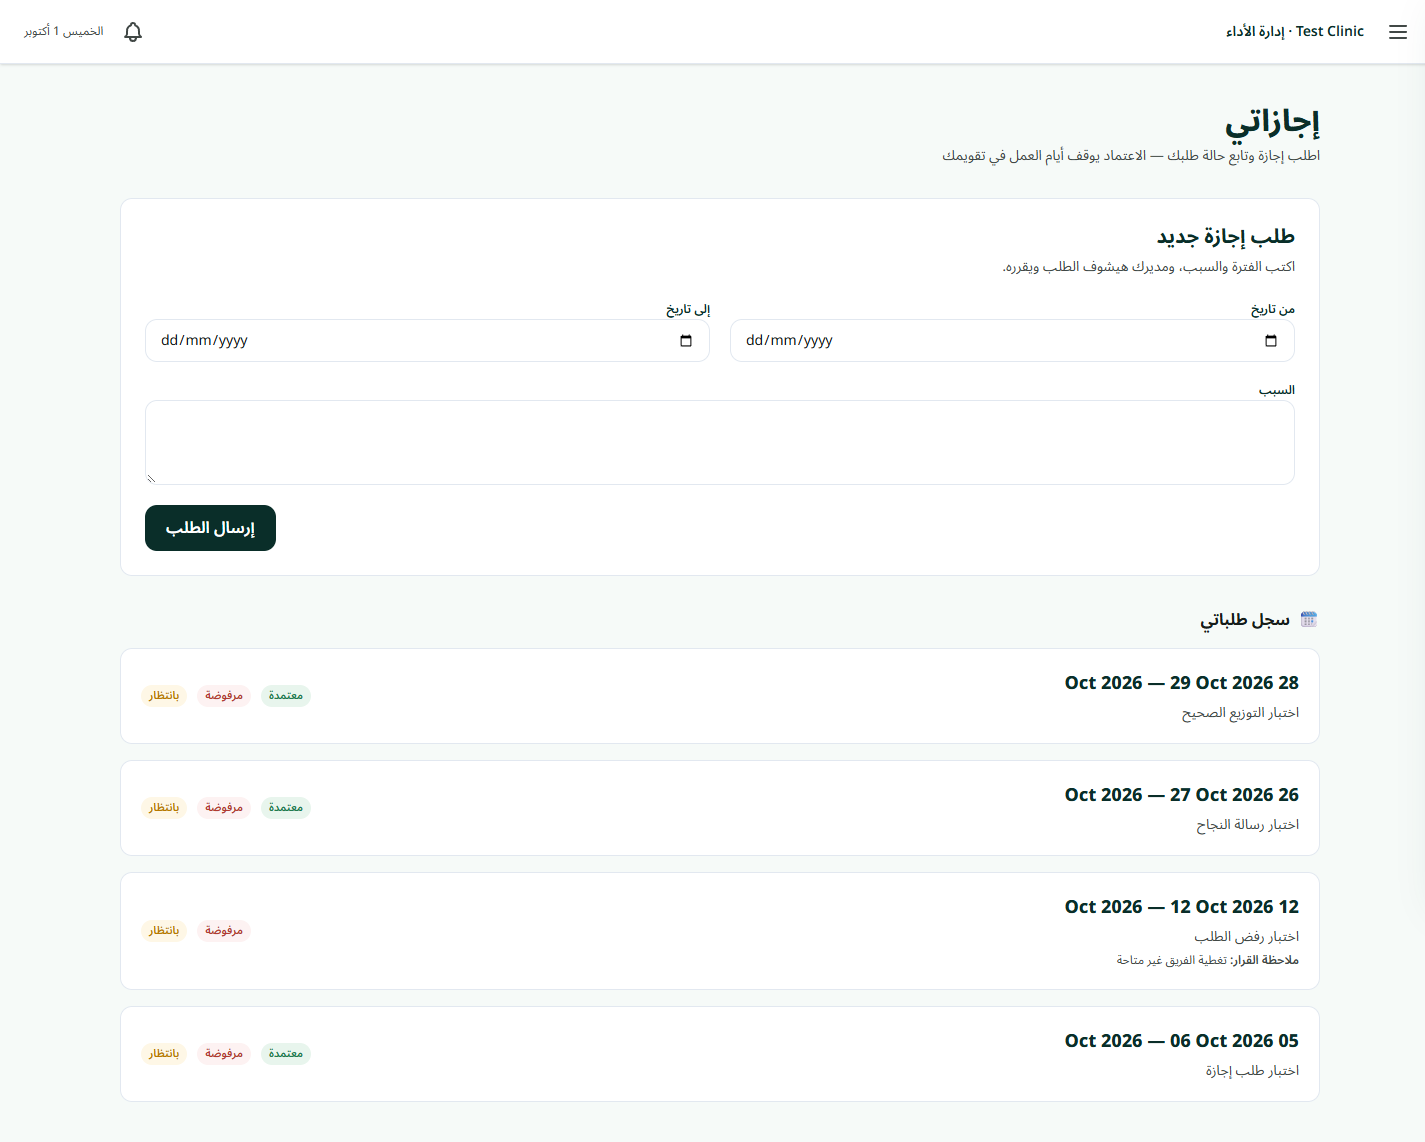
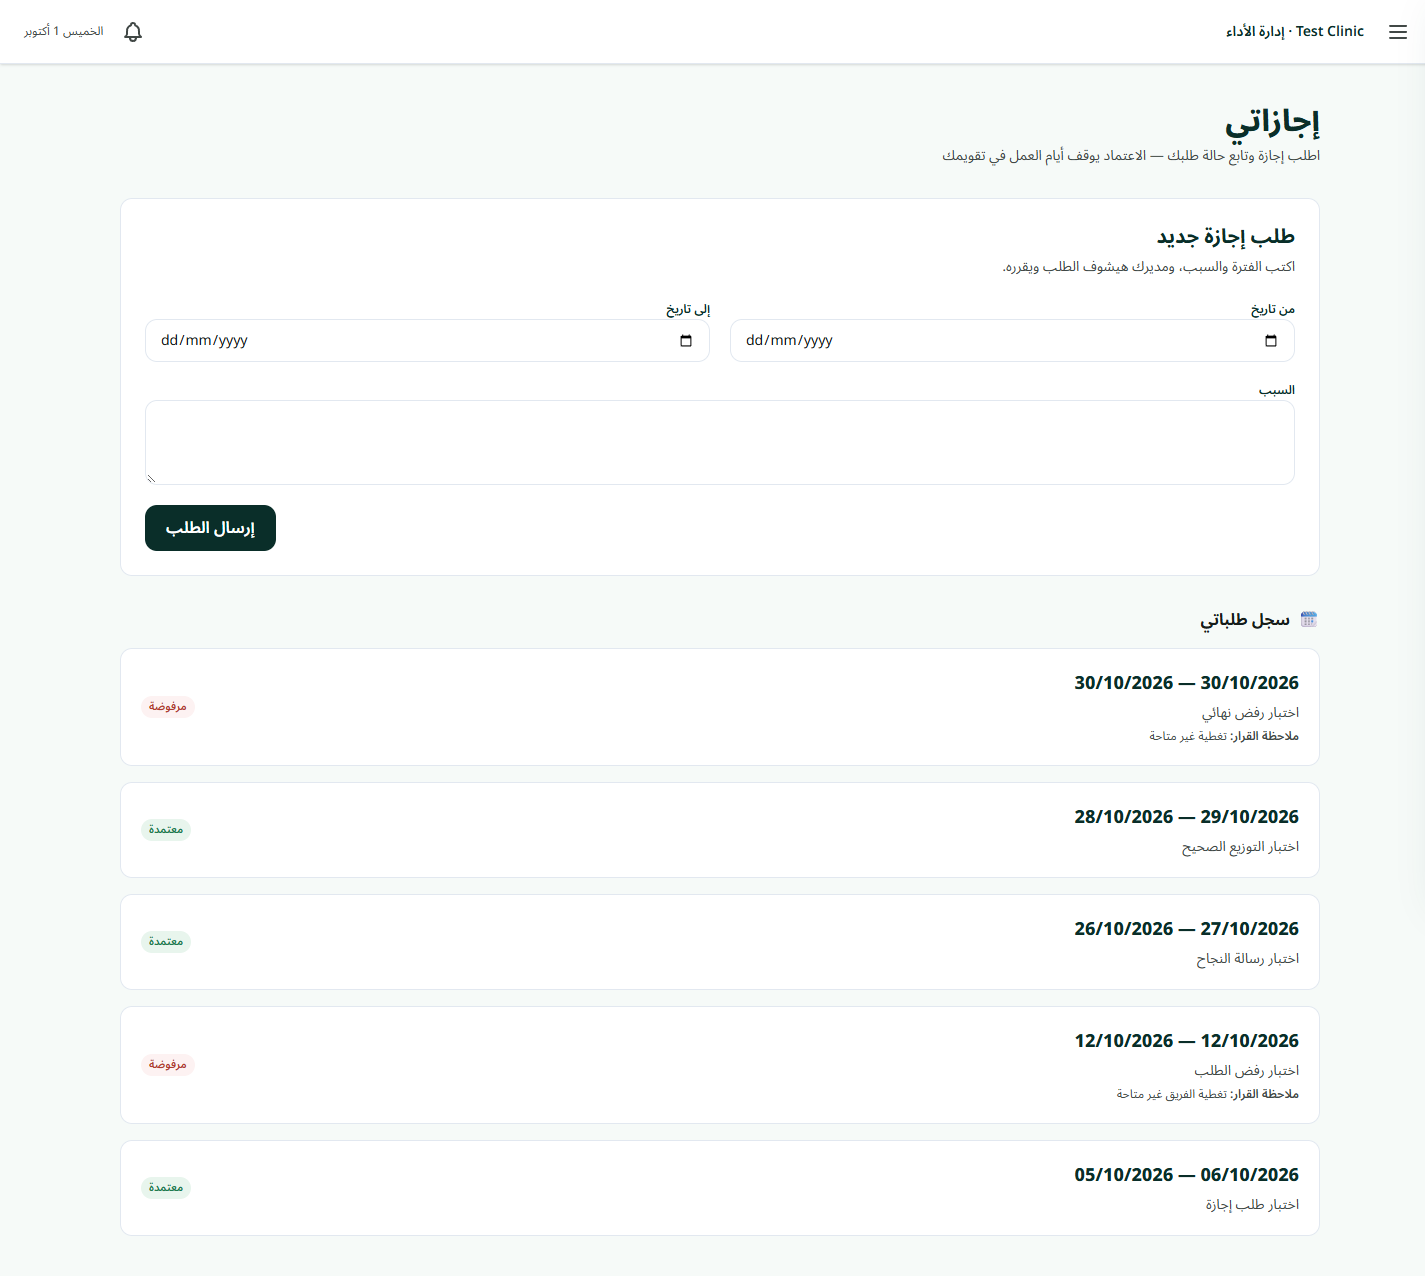
fix(ui): polish leave request states

diff --git a/apps/api/src/main/resources/templates/leaves-me.html b/apps/api/src/main/resources/templates/leaves-me.html
@@ -70,7 +70,7 @@
         </div>
         <article th:each="request : ${requests}" class="clinicos-card p-5 flex flex-col md:flex-row md:items-center justify-between gap-4">
           <div class="space-y-1.5">
-            <h4 class="font-extrabold text-teal-900 text-lg" th:text="|${#temporals.format(request.start(), 'dd MMM yyyy')} — ${#temporals.format(request.end(), 'dd MMM yyyy')}|">01 يناير 2026 — 05 يناير 2026</h4>
+            <h4 class="font-extrabold text-teal-900 text-lg"><bdi dir="ltr" th:text="|${#temporals.format(request.start(), 'dd/MM/yyyy')} — ${#temporals.format(request.end(), 'dd/MM/yyyy')}|">01/01/2026 — 05/01/2026</bdi></h4>
             <p class="text-xs sm:text-sm text-on-surface-variant" th:text="${request.reason()}">السبب</p>
             <p th:if="${request.decisionNote() != null and !request.decisionNote().isBlank()}" class="text-xs text-on-surface-variant">
               <span class="font-semibold">ملاحظة القرار:</span>
@@ -79,8 +79,8 @@
           </div>
           <div class="flex items-center gap-2.5 shrink-0">
             <span th:if="${request.status().name() == 'approved'}" class="clinicos-chip clinicos-chip--success">معتمدة</span>
-            <span th:elseif="${request.status().name() == 'rejected'}" class="clinicos-chip clinicos-chip--danger">مرفوضة</span>
-            <span th:else class="clinicos-chip clinicos-chip--warning">بانتظار</span>
+            <span th:if="${request.status().name() == 'rejected'}" class="clinicos-chip clinicos-chip--danger">مرفوضة</span>
+            <span th:if="${request.status().name() == 'pending'}" class="clinicos-chip clinicos-chip--warning">بانتظار</span>
             <form th:if="${request.status().name() == 'pending'}" method="post" th:action="@{/leaves/{id}/cancel(id=${request.id()})}" hx-boost="true" hx-confirm="هل أنت متأكد من إلغاء الطلب؟">
               <input type="hidden" th:name="${_csrf.parameterName}" th:value="${_csrf.token}">
               <button class="clinicos-btn clinicos-btn--secondary px-3 py-2 text-xs" type="submit">إلغاء</button>

diff --git a/apps/api/src/main/resources/templates/leaves-queue.html b/apps/api/src/main/resources/templates/leaves-queue.html
@@ -13,19 +13,19 @@
            th:classappend="${toastType == 'error'} ? ' border-danger-600 bg-danger-50 text-danger-600' : ' border-success-600 bg-success-50 text-success-600'"
            th:attr="role=${toastType == 'error'} ? 'alert' : 'status'" th:text="${toastMessage}"></div>
 
-      <a th:href="@{/leaves/me}" class="clinicos-btn clinicos-btn--secondary mb-8 inline-flex">إجازاتي</a>
+      <a th:href="@{/leaves/me}" class="clinicos-btn clinicos-btn--secondary mb-8 inline-flex w-full sm:w-auto">إجازاتي</a>
 
       <div th:if="${!#lists.isEmpty(pending)}" class="space-y-4">
         <div class="flex items-center gap-2 text-on-surface font-bold text-sm sm:text-base">
           <span class="text-base" role="img" aria-label="ساعة رملية">⏳</span>
-          <h3>بانتظار الاعتماد</h3>
+          <h2>بانتظار الاعتماد</h2>
         </div>
         <article th:each="request : ${pending}" class="clinicos-card p-5 sm:p-6 flex flex-col md:flex-row md:items-center justify-between gap-5">
           <div class="space-y-2.5 flex-1">
             <span class="clinicos-chip clinicos-chip--warning">بانتظار قرارك</span>
             <h4 class="text-lg font-bold text-teal-900" th:text="${request.employeeName()}">سارة أحمد</h4>
             <p class="text-xs sm:text-sm text-on-surface-variant">
-              <span th:text="|${#temporals.format(request.start(), 'dd MMM yyyy')} — ${#temporals.format(request.end(), 'dd MMM yyyy')}|"></span>
+              <span dir="ltr" th:text="|${#temporals.format(request.start(), 'dd/MM/yyyy')} — ${#temporals.format(request.end(), 'dd/MM/yyyy')}|"></span>
             </p>
             <p class="text-xs sm:text-sm text-on-surface-variant" th:text="${request.reason()}">السبب</p>
           </div>

diff --git a/apps/api/src/test/java/com/clinicos/ui/LeaveTemplateTest.java b/apps/api/src/test/java/com/clinicos/ui/LeaveTemplateTest.java
@@ -43,7 +43,8 @@ class LeaveTemplateTest {
         String html = templateEngine().process("leaves-me", context);
 
         assertThat(html).contains("name=\"start\"", "name=\"end\"", "name=\"reason\"",
-                "سجل طلباتي", "غير مناسب هذا الأسبوع", "مرفوضة");
+                "سجل طلباتي", "غير مناسب هذا الأسبوع", "مرفوضة", "12/10/2026", "14/10/2026")
+                .doesNotContain("معتمدة", "بانتظار", "Oct");
     }
 
     @Test
@@ -52,7 +53,18 @@ class LeaveTemplateTest {
 
         String html = templateEngine().process("leaves-queue", context);
 
-        assertThat(html).contains("طلبات الإجازة", "سارة", "/leaves/", "اعتماد", "رفض", "name=\"note\"");
+        assertThat(html).contains("طلبات الإجازة", "سارة", "/leaves/", "اعتماد", "رفض", "name=\"note\"",
+                "w-full sm:w-auto", "12/10/2026", "14/10/2026", "<h2>بانتظار الاعتماد</h2>")
+                .doesNotContain("<h3>بانتظار الاعتماد</h3>", "Oct");
+    }
+
+    @Test
+    void approvedAndPendingStatusesRenderOnlyTheirOwnChip() {
+        String approved = ownRequestsHtml(request(LeaveStatus.approved, null));
+        String pending = ownRequestsHtml(request(LeaveStatus.pending, null));
+
+        assertThat(approved).contains("معتمدة").doesNotContain("مرفوضة", "بانتظار");
+        assertThat(pending).contains("بانتظار").doesNotContain("معتمدة", "مرفوضة");
     }
 
     @Test
@@ -155,6 +167,20 @@ class LeaveTemplateTest {
                 JakartaServletWebApplication.buildApplication(new MockServletContext())
                         .buildExchange(new MockHttpServletRequest(), new MockHttpServletResponse()),
                 Locale.forLanguageTag("ar"), model);
+    }
+
+    private static String ownRequestsHtml(LeaveRequest request) {
+        WebContext context = context("assistant", "leaves/me", Map.of(
+                "errors", Map.of(),
+                "start", "",
+                "end", "",
+                "reason", "",
+                "canApprove", false,
+                "pendingCount", 0,
+                "hasEmployee", true,
+                "canRequest", true,
+                "requests", List.of(request)));
+        return templateEngine().process("leaves-me", context);
     }
 
     private static LeaveRequest request(LeaveStatus status, String note) {
